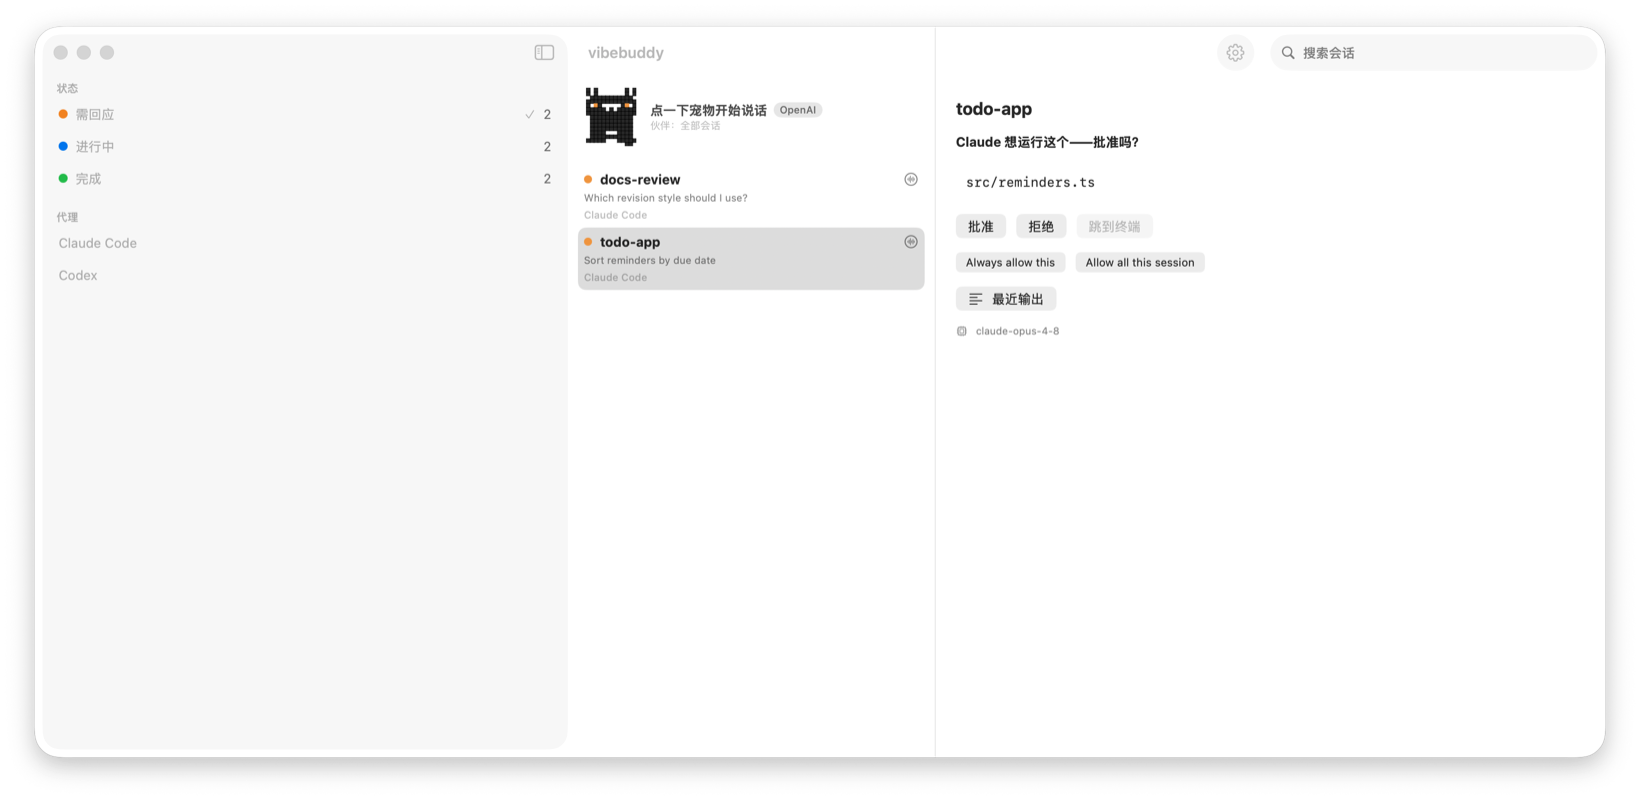
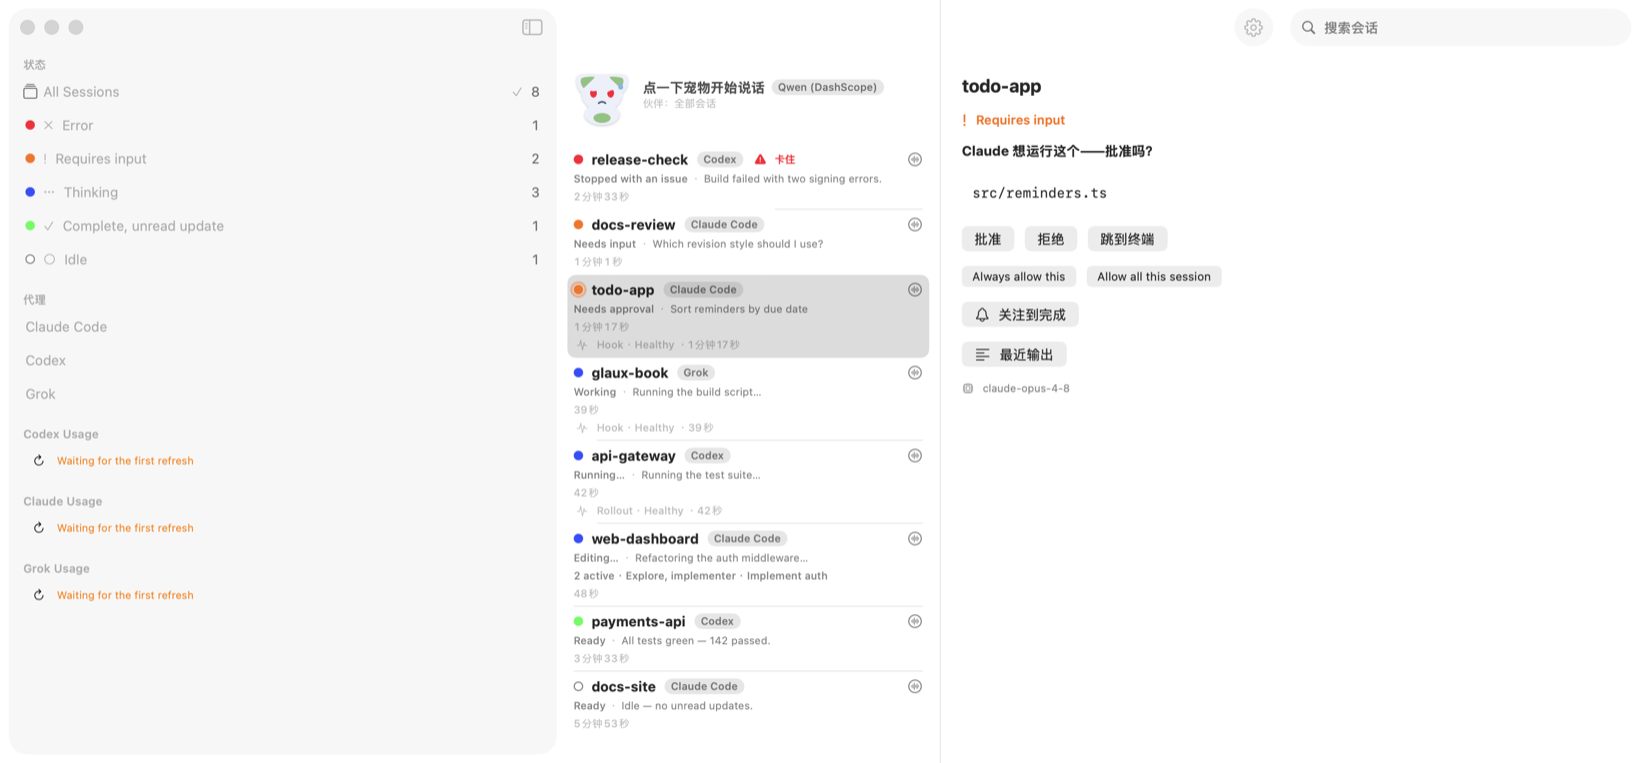
docs(readme): describe the shared in-app cat and retake the demo screenshots
The README said the in-app buddy was a separate pixel cat; with the
icon's cat drawn on every surface that sentence is wrong in both
languages. Rewrite it and retake the Mac dashboard (en/zh), the expanded
notch glance and the iPhone dashboard in Demo mode from this branch
merged with main, so the screenshots show the new buddy.

diff --git a/README.md b/README.md
@@ -58,7 +58,7 @@ No more walking back to the desk to find a session has been blocked on a permiss
 
 > **The app icon** is a white kitten with green ears and eyes on muted slate blue — one soft silhouette, three colors, still readable at 16 px. It was designed with the [ip-as-logo](https://github.com/s1dashu/ip-as-logo-skill) skill and picked from six generated candidates; the same 1024 px artwork ships on macOS, iOS and watchOS.
 >
-> The **in-app buddy** is a separate pixel cat, **drawn in code, identical on iPhone, the Mac dashboard, and the notch glance** — only its mood (eyes & ears) and color (white on the dark notch) change. All screenshots above are **Demo mode** (sample data) — no real session data.
+> The **in-app buddy is the same cat, drawn in code** from one shared geometry, so it looks identical on iPhone, Apple Watch, the Dynamic Island, the Mac dashboard, the notch glance and the menu bar — only its mood (ears, eyes, mouth) and its small reactions change. All screenshots above are **Demo mode** (sample data) — no real session data.
 
 ---
 

diff --git a/README.zh-CN.md b/README.zh-CN.md
@@ -58,7 +58,7 @@
 
 > **应用图标**是一只绿耳朵、绿眼睛的小白猫，趴在柔和的石板蓝底上——一个柔软的剪影、三种颜色，缩到 16 px 仍能认出来。它用 [ip-as-logo](https://github.com/s1dashu/ip-as-logo-skill) 技能设计，从六张生成候选中选出；同一张 1024 px 原图同时用于 macOS、iOS 和 watchOS。
 >
-> App 里的 **buddy** 是另一只像素猫，**纯代码绘制，在 iPhone、Mac 仪表盘和刘海概览上完全一致**——只有心情（眼睛和耳朵）和颜色（深色刘海上变白）会变。以上截图均为**演示模式**（示例数据），不含任何真实会话数据。
+> App 里的 **buddy 就是同一只猫，纯代码绘制**，共用一套几何，所以在 iPhone、Apple Watch、灵动岛、Mac 仪表盘、刘海概览和菜单栏上完全一致——只有心情（耳朵、眼睛、嘴巴）和小动作会变。以上截图均为**演示模式**（示例数据），不含任何真实会话数据。
 
 ---
 
